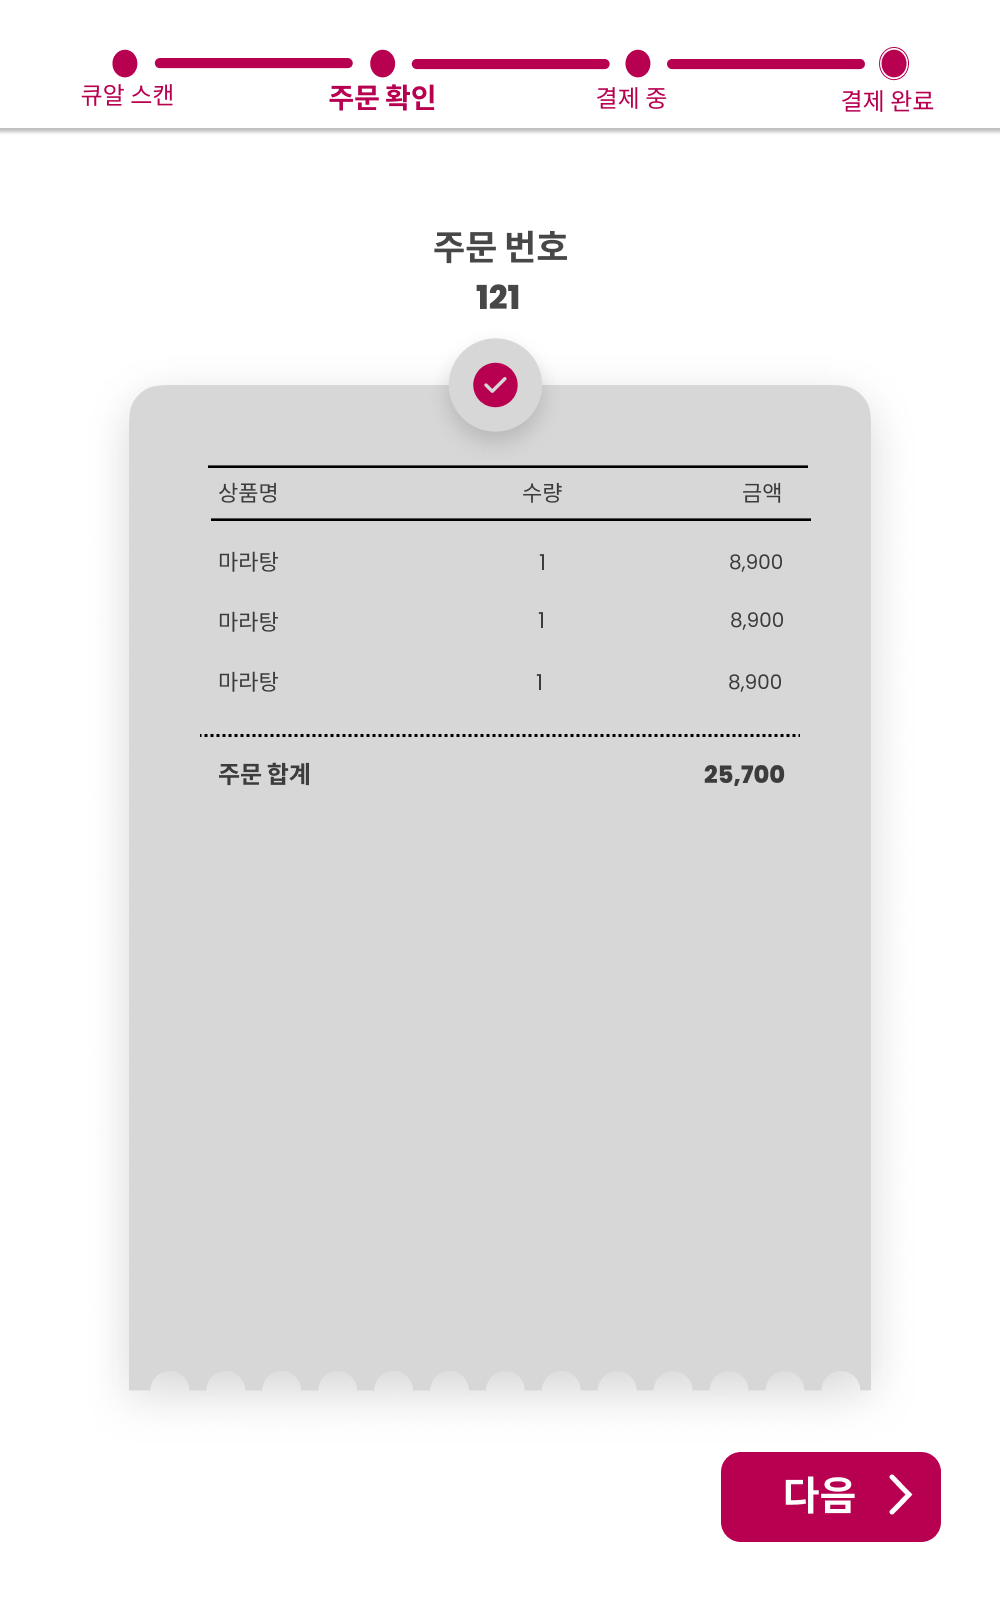
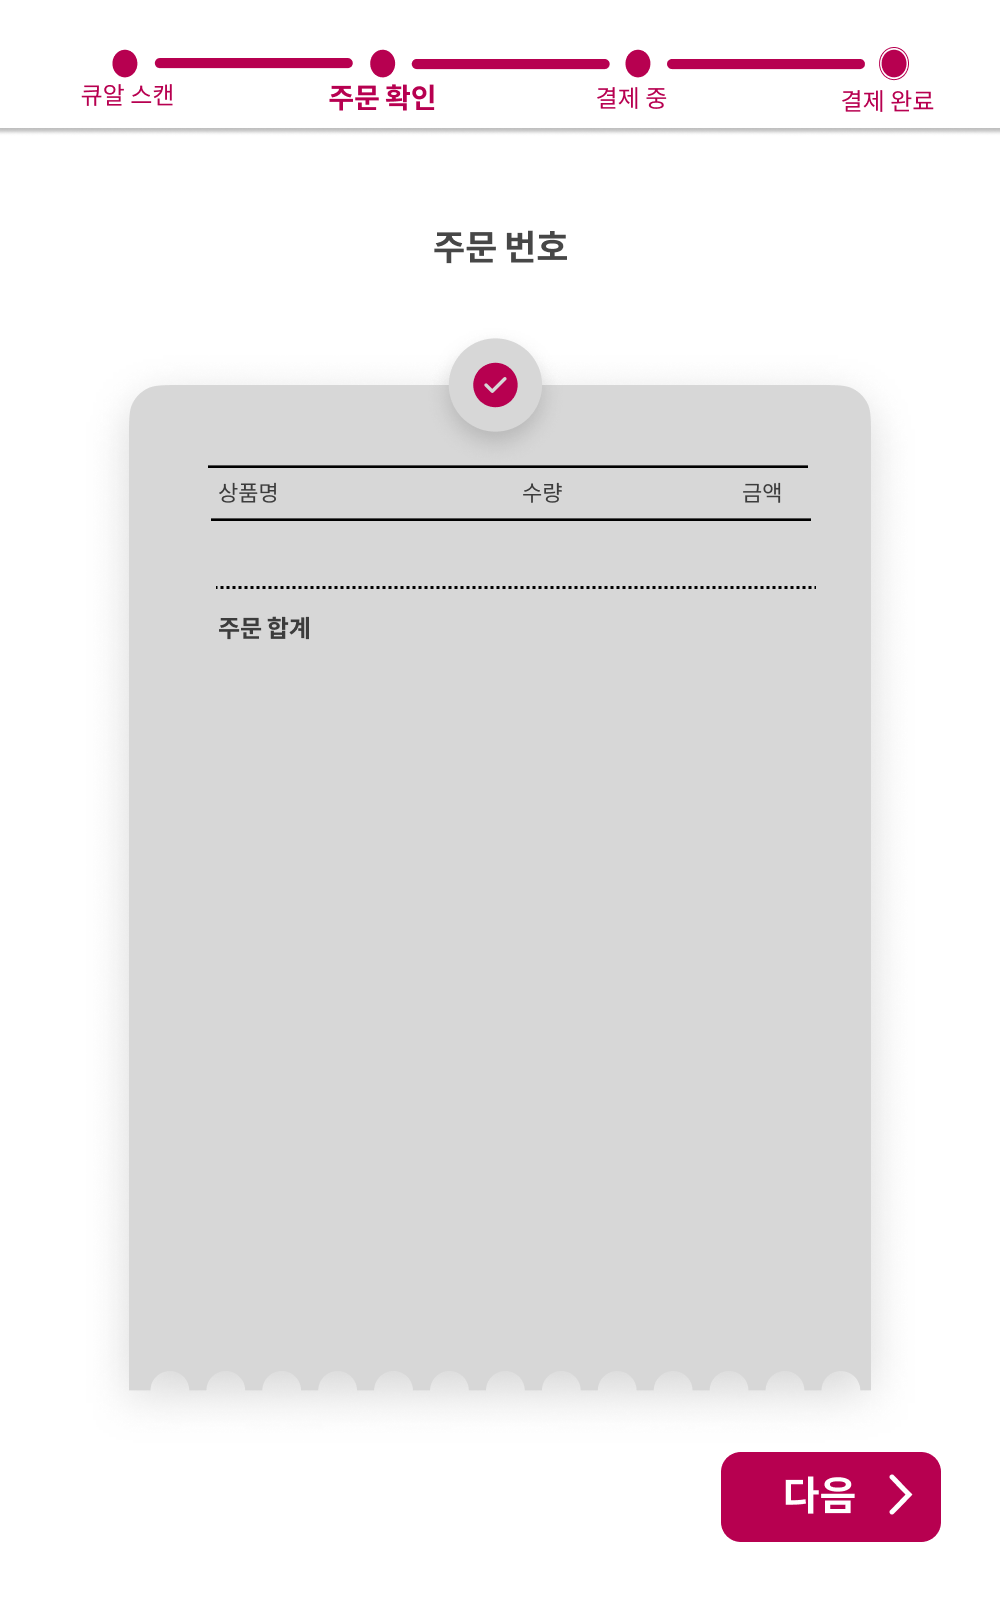
init

diff --git a/templates/billScreen.html b/templates/billScreen.html
@@ -8,8 +8,22 @@
     </head>
     <body>
         <button type="button" class="payment" onclick="location.href='./paymentScreen'">SELECT</button>
-        <div class="print">
-            {{name}} {{ id }}를 전달받았습니다.
+        <div class="orderID">
+            <b><center>{{ orderID }}</center></b>
+        </div>
+        <div class="box1">
+            <div class="menu1" style="float: left; width: 130px;">
+                {{ menu }}
+            </div>
+            <div class="quantity1" style="float: left; width: 100px;">
+                <center>{{ quantitiy }}</center>
+            </div>
+            <div class="price1" style="float: left; width: 100px; text-align: right;">
+                {{ price }}
+            </div>
+        </div>
+        <div class="totalprice">
+            <b>{{ total }}</b>
         </div>
     </body>
 </html>

diff --git a/templates/paymentScreen.html b/templates/paymentScreen.html
@@ -7,6 +7,9 @@
         <link href = "../static/paymentScreen.css" rel="stylesheet" type="text/css">
     </head>
     <body>
-        <button type="button" class="payment" onclick="location.href='./cardScreen'">SELECT</button>
+        <!--카드 결제 버튼-->
+        <button type="card_btn" class="payment" onclick="location.href='./cardScreen'">SELECT</button>
+        <!--카카오페이 결제 버튼-->
+        <button type="kakao_btn" class="payment" onclick="location.href='./cardScreen'">SELECT</button>
     </body>
 </html>

diff --git a/static/billScreen.css b/static/billScreen.css
@@ -13,3 +13,19 @@ body {
     height: 100vh; 
     width: 100%; 
 }
+
+.orderID {
+    margin-top: 135px;
+    font-size: 30px;
+}
+
+.box1 {
+    font-size: 13px;
+    margin-top: 115px;
+    margin-left: 125px;
+}
+
+.totalprice {
+    margin-top: 155px;
+    margin-left: 420px;
+}

diff --git a/templates/QRScreen.html b/templates/QRScreen.html
@@ -27,7 +27,6 @@
             </div>
         </div>
         </center>
-        
     </body>
 </html>
 <script type="text/javascript">	

diff --git a/app.py b/app.py
@@ -1,5 +1,3 @@
-import json
-
 from flask import Flask, render_template, request, g, jsonify, Response
 import sqlite3
 import requests
@@ -22,11 +20,25 @@ def close_connection(exception):
 
 #database불러오기
 @app.route('/dbupload')
-def some_endpoint():
+def dbupload():
+    url = "http://127.0.0.1:5000/sqlupload"
+
+    response = requests.get(url)
+
+    data = response.text
+    sql = str(data)
+
     cur = get_db().cursor()
-    cur.execute("SELECT * FROM Student")
+    cur.execute(sql)
+
     data = cur.fetchall()
     return jsonify(data)
+
+@app.route('/sqlupload')
+def sqlupload():
+    sql_string = "SELECT Orders.orderID, Menu.menuName, Menu.menuPrice FROM Orders, OrderDetail, Student, Menu WHERE Student.stdID = '20210796' and Student.stdID = Orders.stdID and Orders.orderID = OrderDetail.orderID and OrderDetail.menuID = Menu.menuID;"
+
+    return str(sql_string)
 
 @app.route("/")
 def home():
@@ -41,20 +53,23 @@ def qrscreen():
 def bill():
     url = "http://127.0.0.1:5000/dbupload"
 
-    # 해당 URL로 GET 요청 수행
     response = requests.get(url)
-
-    # JSON 데이터로 변환
     data = response.json()
 
-    name = data[0][1]
-    id = data[0][0]
+    quantity = len(data)
+    orderID = data[0][0]
+    menu = data[0][1]
+    price = data[0][2]
+
+    total = price
+
+    #total = sum(price)
 
     #cur = get_db().cursor()
     #cur.execute("INSERT INTO your_table_name (name, age) VALUES (?, ?)", (name, age))
     #get_db().commit()
 
-    return render_template('billScreen.html', name = name, id = id)
+    return render_template('billScreen.html', orderID=orderID, menu=menu, price=price, quantitiy = quantity, total = total)
 
 @app.route("/paymentScreen")
 def payment():
